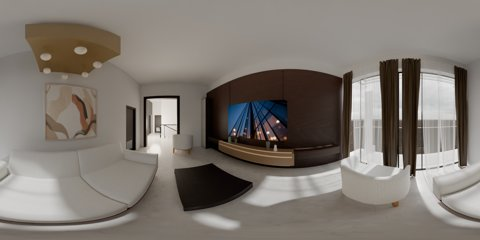
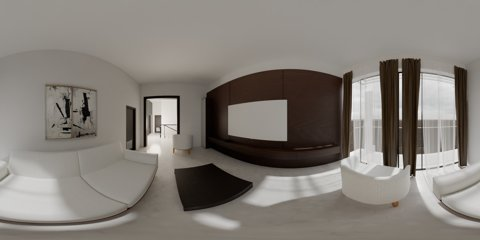
Family Lounge: restore ORIGINAL SketchUp composition — B/W diptych art, remove added chandelier+decor, TV off, remove all Lane-A furniture; keep overcast sky + brightness

Changed region(s): [[0.0312, 0.0583, 0.25, 0.5833], [0.4375, 0.4083, 0.625, 0.7], [0.9062, 0.2333, 0.9688, 0.2917]]

diff --git a/living-room-premium/tour.html b/living-room-premium/tour.html
@@ -55,8 +55,8 @@ const cam = new THREE.PerspectiveCamera(75, innerWidth/innerHeight, 0.05, 50);
 // --- load RGB + RGBD depth
 const loader = new THREE.TextureLoader();
 const [panoTex, depthTex] = await Promise.all([
-  loader.loadAsync('panos/living_room.jpg?v=20260916i'),
-  loader.loadAsync('panos/depth_rgbd.png?v=20260916i')
+  loader.loadAsync('panos/living_room.jpg?v=20260916j'),
+  loader.loadAsync('panos/depth_rgbd.png?v=20260916j')
 ]);
 panoTex.colorSpace = THREE.SRGBColorSpace;
 depthTex.minFilter = depthTex.magFilter = THREE.LinearFilter;

diff --git a/living-room-premium/tour_v2.html b/living-room-premium/tour_v2.html
@@ -65,7 +65,7 @@ const cam = new THREE.PerspectiveCamera(FOV_DEFAULT, innerWidth/innerHeight, 0.0
 // --- load RGB + RGBD depth
 const loader = new THREE.TextureLoader();
 const [panoTex, depthTex] = await Promise.all([
-  loader.loadAsync('panos/living_room.jpg?v=20260916i'),
+  loader.loadAsync('panos/living_room.jpg?v=20260916j'),
   loader.loadAsync('panos/depth_rgbd.png?v=20260914t')
 ]);
 panoTex.colorSpace = THREE.SRGBColorSpace;
